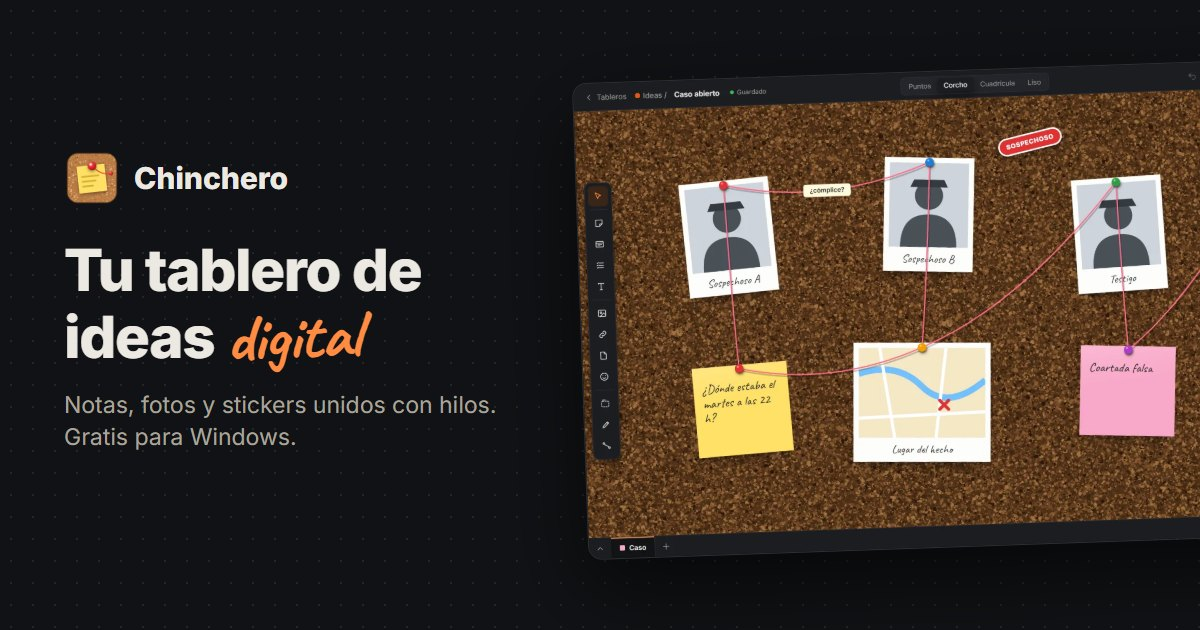
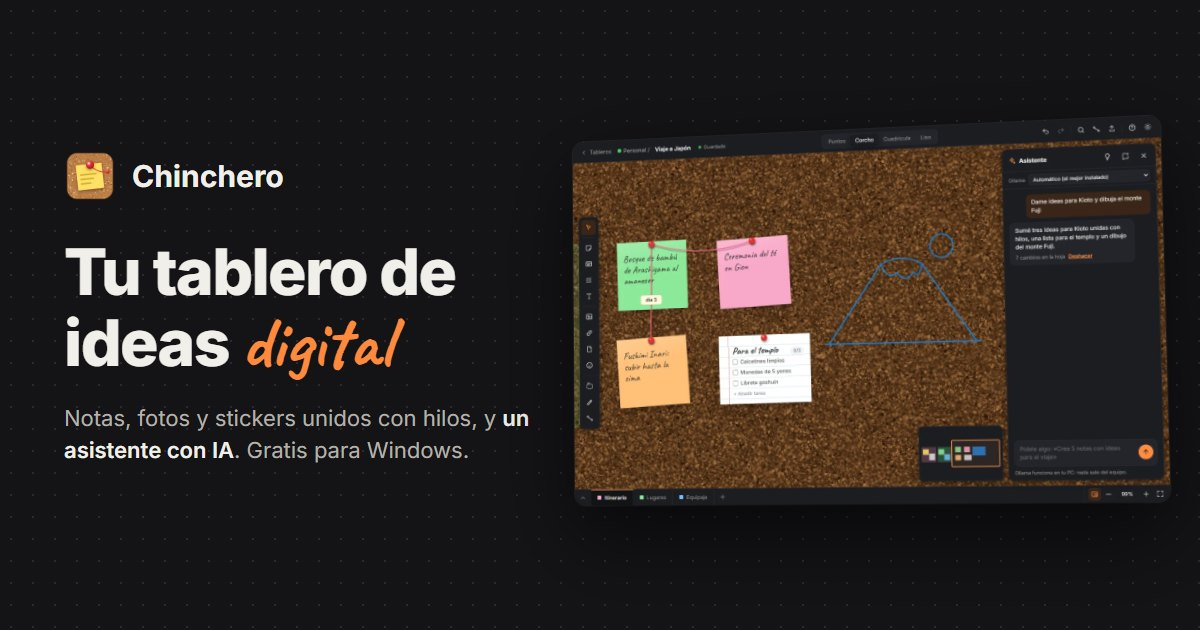
feat(web): asistente con IA, dibujo a mano, ARM64 y og.jpg nuevo

diff --git a/web/index.html b/web/index.html
@@ -4,8 +4,8 @@
 <meta charset="utf-8">
 <meta name="viewport" content="width=device-width, initial-scale=1">
 <title>Chinchero: tablero de corcho digital gratis para Windows</title>
-<meta name="description" content="Tablero de corcho digital gratis para Windows: pincha notas, fotos y stickers, únelos con hilos como un tablero de detective y organiza tus ideas sin conexión.">
-<meta name="keywords" content="tablero de corcho digital, tablero de corcho virtual, tablero de ideas, tablero de detective, notas adhesivas, post-it en el escritorio, moodboard, mapa mental, lluvia de ideas, organizar ideas, organizador de notas, app gratis para Windows, Chinchero">
+<meta name="description" content="Tablero de corcho digital gratis para Windows: pincha notas, fotos y stickers, únelos con hilos como un tablero de detective y pide ideas a un asistente con IA. Funciona sin conexión.">
+<meta name="keywords" content="tablero de corcho digital, tablero de corcho virtual, tablero de ideas, tablero de detective, notas adhesivas, post-it en el escritorio, moodboard, mapa mental, lluvia de ideas, organizar ideas, organizador de notas, asistente con IA, IA local, Ollama, Gemini, app gratis para Windows, Chinchero">
 <meta name="author" content="Max Lezano">
 <meta name="robots" content="index, follow">
 <meta name="theme-color" content="#c2410c">
@@ -13,16 +13,16 @@
 <meta property="og:site_name" content="Chinchero">
 <meta property="og:locale" content="es_LA">
 <meta property="og:title" content="Chinchero: tablero de corcho digital gratis para Windows">
-<meta property="og:description" content="Notas, fotos y stickers unidos con hilos, como en un tablero de verdad. Gratis para Windows y sin conexión.">
+<meta property="og:description" content="Notas, fotos y stickers unidos con hilos, como en un tablero de verdad, y un asistente con IA que te da ideas. Gratis para Windows.">
 <meta property="og:image" content="https://tuchinchero.com/assets/og.jpg">
 <meta property="og:image:width" content="1200">
 <meta property="og:image:height" content="630">
-<meta property="og:image:alt" content="Tablero de Chinchero con notas, fotos y stickers unidos con hilos">
+<meta property="og:image:alt" content="Tablero de Chinchero con notas unidas con hilos, un dibujo y el asistente con IA abierto">
 <meta property="og:url" content="https://tuchinchero.com/">
 <meta property="og:type" content="website">
 <meta name="twitter:card" content="summary_large_image">
 <meta name="twitter:title" content="Chinchero: tablero de corcho digital gratis para Windows">
-<meta name="twitter:description" content="Notas, fotos y stickers unidos con hilos, como en un tablero de verdad. Gratis para Windows y sin conexión.">
+<meta name="twitter:description" content="Notas, fotos y stickers unidos con hilos, como en un tablero de verdad, y un asistente con IA que te da ideas. Gratis para Windows.">
 <meta name="twitter:image" content="https://tuchinchero.com/assets/og.jpg">
 <script type="application/ld+json">
 {
@@ -31,9 +31,11 @@
   "name": "Chinchero",
   "alternateName": "Tu Chinchero",
   "url": "https://tuchinchero.com/",
-  "description": "Tablero de corcho digital para Windows: notas adhesivas, fotos, listas y stickers unidos con hilos para organizar ideas, proyectos, estudios y viajes. Funciona sin conexión.",
+  "description": "Tablero de corcho digital para Windows: notas adhesivas, fotos, listas, stickers y dibujos unidos con hilos para organizar ideas, proyectos, estudios y viajes, con un asistente con IA opcional. Funciona sin conexión.",
   "applicationCategory": "ProductivityApplication",
   "operatingSystem": "Windows 10, Windows 11",
+  "processorRequirements": "x64, ARM64",
+  "featureList": ["Notas adhesivas, fichas y listas de tareas", "Fotos, enlaces y archivos", "Hilos entre elementos", "Zonas, grupos, tableros y hojas", "Dibujo a mano alzada con goma", "Asistente con IA: Gemini gratis u Ollama sin internet", "Búsqueda en todas las hojas", "Exportar a PNG y PDF", "Copias de seguridad", "Atajos personalizables y lector de pantalla"],
   "inLanguage": "es",
   "image": "https://tuchinchero.com/assets/og.jpg",
   "downloadUrl": "https://github.com/MaxLezano/Chinchero/releases/latest",
@@ -55,7 +57,7 @@
   <div class="wrap">
     <a class="logo" href="#"><img src="assets/icon-256.png" alt="">Chinchero</a>
     <nav class="nav-links" aria-label="Secciones">
-      <a href="#funciones">Funciones</a><a href="#como">Cómo se usa</a><a href="#capturas">Capturas</a><a href="#descargar">Descargar</a><a href="#preguntas">Preguntas</a>
+      <a href="#funciones">Funciones</a><a href="#asistente">Asistente</a><a href="#como">Cómo se usa</a><a href="#capturas">Capturas</a><a href="#descargar">Descargar</a><a href="#preguntas">Preguntas</a>
     </nav>
     <div class="nav-actions">
       <button class="icon-btn" id="themeBtn" aria-label="Cambiar tema">
@@ -73,7 +75,7 @@
       <div>
         <span class="eyebrow">📌 Gratis · Windows · Sin conexión</span>
         <h1>Tu tablero de ideas <span class="hand">digital</span></h1>
-        <p class="lead">Un tablero de corcho digital para tu PC: pincha notas, fotos, listas y stickers. Únelos con hilos como en las pelis de detectives y organiza tus ideas en tableros y hojas. Todo queda en tu equipo.</p>
+        <p class="lead">Un tablero de corcho digital para tu PC: pincha notas, fotos, listas y stickers. Únelos con hilos como en las pelis de detectives y organiza tus ideas en tableros y hojas. Y si te trabas, Chinche, el asistente con IA, te da ideas. Todo queda en tu equipo.</p>
         <div class="cta">
           <a class="btn btn-primary dl-btn" href="#descargar">
             <svg viewBox="0 0 24 24" fill="currentColor" aria-hidden="true"><path d="M3 5.5 10.5 4.5v7H3zM11.5 4.4 21 3v8.5h-9.5zM3 12.5h7.5v7L3 18.5zM11.5 12.5H21V21l-9.5-1.4z"/></svg>
@@ -81,7 +83,7 @@
           </a>
           <a class="btn" href="#como">Ver cómo funciona</a>
         </div>
-        <div class="hero-meta"><span>Windows 10 y 11</span><span>Se actualiza sola</span><span>Código abierto</span></div>
+        <div class="hero-meta"><span>Windows 10 y 11 · Intel, AMD y ARM</span><span>Se actualiza sola</span><span>Código abierto</span></div>
       </div>
 
       <div class="board" id="heroBoard" aria-label="Animación: alguien crea notas, une ideas con hilos y las agrupa en una zona">
@@ -115,16 +117,32 @@
         <article class="feature reveal"><div class="fi" style="--c:#ebfbee">📑</div><h3>Tableros y hojas</h3><p>Organiza tableros en grupos y cada tablero en hojas, como pestañas de Excel.</p></article>
         <article class="feature reveal"><div class="fi" style="--c:#fff4e6">🔎</div><h3>Encuentra todo</h3><p>Ctrl+K busca cualquier nota, foto o lista en todas las hojas y salta directo a ella.</p></article>
         <article class="feature reveal"><div class="fi" style="--c:#f8f0e3">🌗</div><h3>Fondos, claro y oscuro</h3><p>Fondo de corcho, puntos o cuadrícula, en tema claro u oscuro. Tú eliges.</p></article>
-        <article class="feature reveal"><div class="fi" style="--c:#e6fcf5">↩</div><h3>Sin miedo a equivocarte</h3><p>Guardado automático, deshacer y rehacer, copias de seguridad y papelera durante 30 días.</p></article>
+        <article class="feature reveal"><div class="fi" style="--c:#e6fcf5">↩</div><h3>Sin miedo a equivocarte</h3><p>Guardado automático, deshacer y rehacer, y papelera durante 30 días. Si algo se daña, Chinchero lo recupera.</p></article>
         <article class="feature reveal"><div class="fi" style="--c:#fff0f6">🔒</div><h3>Tus datos son tuyos</h3><p>Sin cuentas ni nube obligatoria. Todo queda en una carpeta que puedes copiar donde quieras.</p></article>
         <article class="feature reveal"><div class="fi" style="--c:#e7f5ff">📤</div><h3>Exporta y comparte</h3><p>Guarda una hoja como imagen PNG o PDF, o pasa un tablero entero en un archivo .chinchero.</p></article>
-        <article class="feature reveal"><div class="fi" style="--c:#fff9db">💾</div><h3>Copias de seguridad</h3><p>Copias en .zip con un clic y automáticas al abrir. Si algo se daña, Chinchero lo recupera.</p></article>
+        <article class="feature reveal"><div class="fi" style="--c:#fff9db">✏</div><h3>Dibuja a mano</h3><p>Flechas, círculos y garabatos sobre el tablero con el lápiz, y una goma para borrar trazos.</p></article>
         <article class="feature reveal"><div class="fi" style="--c:#f3f0ff">⌨</div><h3>A tu manera</h3><p>Cambia los atajos, úsalo entero con el teclado o con lector de pantalla y activa sonidos si te gustan.</p></article>
       </div>
+      <p class="sec-note reveal">Y copias de seguridad en .zip con un clic, más una automática cada vez que abres Chinchero.</p>
     </div>
   </section>
 
-  <section id="como" class="alt">
+  <section id="asistente" class="alt">
+    <div class="wrap">
+      <div class="sec-head reveal"><div class="kicker">Chinche, tu asistente con IA</div><h2>Pídele ideas y las pincha por ti</h2><p>Haz clic en la chinche de la esquina y escribe lo que necesitas. Todo lo que hace se deshace con Ctrl+Z.</p></div>
+      <div class="features">
+        <article class="feature reveal"><div class="fi" style="--c:#fff3bf">💡</div><h3>Ideas al instante</h3><p>Propone ideas sobre lo que hay en la hoja o lo que elegiste, como notas unidas con hilos.</p></article>
+        <article class="feature reveal"><div class="fi" style="--c:#ebfbee">🧩</div><h3>Tableros completos</h3><p>«Arma un plan de viaje a Japón»: crea notas, fichas, listas, zonas y hojas nuevas.</p></article>
+        <article class="feature reveal"><div class="fi" style="--c:#f3f0ff">🗂</div><h3>Resume y ordena</h3><p>Resume una hoja en una ficha, agrupa por tema en zonas o junta las tareas pendientes en una lista.</p></article>
+        <article class="feature reveal"><div class="fi" style="--c:#e7f5ff">🖍</div><h3>También dibuja</h3><p>Pídele un caballo, un mapa o el monte Fuji y lo dibuja a mano alzada en el tablero.</p></article>
+        <article class="feature reveal"><div class="fi" style="--c:#fff4e6">✨</div><h3>Gemini, gratis</h3><p>Lo más fácil: con tu cuenta de Google y una clave gratuita que Chinchero te ayuda a sacar paso a paso.</p></article>
+        <article class="feature reveal"><div class="fi" style="--c:#e6fcf5">🔌</div><h3>Ollama, sin internet</h3><p>Chinchero lo instala por ti, sin ventanas: la IA corre en tu PC y nada sale del equipo.</p></article>
+      </div>
+      <p class="sec-note reveal">Viene desactivado: lo activas en Ajustes → Asistente con IA solo si lo quieres.</p>
+    </div>
+  </section>
+
+  <section id="como">
     <div class="wrap">
       <div class="sec-head reveal"><div class="kicker">En cuatro gestos</div><h2>Cómo se usa</h2><p>Y si te pierdes, cada pantalla tiene un tutorial guiado y sugerencias que aparecen en el momento justo.</p></div>
       <div class="steps">
@@ -151,11 +169,12 @@
     </div>
   </section>
 
-  <section id="capturas">
+  <section id="capturas" class="alt">
     <div class="wrap">
       <div class="sec-head reveal"><div class="kicker">Así se ve</div><h2>Capturas reales de la app</h2><p>Cambia el tema arriba a la derecha para verlas en claro u oscuro.</p></div>
       <div class="tabs" role="tablist" aria-label="Capturas">
         <button class="tab" role="tab" data-shot="editor">Tablero</button>
+        <button class="tab" role="tab" data-shot="assistant">Asistente</button>
         <button class="tab" role="tab" data-shot="detective">Detective</button>
         <button class="tab" role="tab" data-shot="kanban">Kanban</button>
         <button class="tab" role="tab" data-shot="select">Edición</button>
@@ -168,17 +187,17 @@
     </div>
   </section>
 
-  <section class="alt">
+  <section>
     <div class="wrap">
       <div class="sec-head reveal"><div class="kicker">Para ir rápido</div><h2>Atajos que vas a usar todos los días</h2><p>Y si prefieres otros, los cambias en Ajustes → Atajos.</p></div>
       <div class="keys reveal">
-        <div class="key">Nota nueva <kbd>N</kbd></div><div class="key">Tender hilo <kbd>L</kbd></div><div class="key">Buscar <kbd>Ctrl K</kbd></div><div class="key">Deshacer <kbd>Ctrl Z</kbd></div>
-        <div class="key">Agrupar <kbd>Ctrl G</kbd></div><div class="key">Duplicar <kbd>Ctrl D</kbd></div><div class="key">Zoom <kbd>Rueda</kbd></div><div class="key">Encuadrar todo <kbd>Shift 1</kbd></div>
+        <div class="key">Nota nueva <kbd>N</kbd></div><div class="key">Tender hilo <kbd>L</kbd></div><div class="key">Dibujar <kbd>D</kbd></div><div class="key">Goma <kbd>E</kbd></div>
+        <div class="key">Buscar <kbd>Ctrl K</kbd></div><div class="key">Deshacer <kbd>Ctrl Z</kbd></div><div class="key">Agrupar <kbd>Ctrl G</kbd></div><div class="key">Encuadrar todo <kbd>Shift 1</kbd></div>
       </div>
     </div>
   </section>
 
-  <section id="descargar">
+  <section id="descargar" class="alt">
     <div class="wrap">
       <div class="sec-head reveal"><div class="kicker">Gratis, para siempre</div><h2>Descarga Chinchero</h2><p>Un instalador para Windows. Las versiones nuevas se instalan solas.</p></div>
       <div class="dl">
@@ -186,7 +205,7 @@
         <div>
           <div class="card reveal">
             <h3 style="margin-top:0">Requisitos</h3>
-            <ul class="req"><li>Windows 10 u 11 de 64 bits, con procesador Intel, AMD o ARM</li><li>Unos 400 MB libres</li><li>No necesita internet para usarla</li></ul>
+            <ul class="req"><li>Windows 10 u 11 de 64 bits, con procesador Intel, AMD o ARM</li><li>Unos 400 MB libres</li><li>No necesita internet para usarla</li><li>Asistente con IA (opcional): internet para Gemini, o unos 6 GB más para Ollama sin internet</li></ul>
             <div class="callout"><b>¿Windows muestra un aviso al instalar?</b> Es normal en apps nuevas sin firma comercial: pulsa «Más información» → «Ejecutar de todas formas».</div>
           </div>
           <div class="card reveal" style="margin-top:22px">
@@ -198,11 +217,13 @@
     </div>
   </section>
 
-  <section id="preguntas" class="alt">
+  <section id="preguntas">
     <div class="wrap">
       <div class="sec-head reveal"><div class="kicker">Dudas</div><h2>Preguntas frecuentes</h2></div>
       <div class="faq reveal">
         <details><summary>¿Es gratis?</summary><p>Sí, totalmente. Y el código es abierto: puedes verlo en GitHub.</p></details>
+        <details><summary>¿El asistente con IA cuesta algo?</summary><p>No. Con Gemini usas el plan gratuito de Google con tu propia clave (tiene un cupo por día; si se agota, espera un rato). Con Ollama la IA corre en tu PC, sin cupos ni internet, aunque más lento si no tienes tarjeta gráfica.</p></details>
+        <details><summary>¿Mis tableros se envían a internet?</summary><p>Solo si usas el asistente con Gemini: el texto de la hoja que tienes abierta va a Google para que responda. Con Ollama, o con el asistente desactivado (como viene), nada sale de tu PC.</p></details>
         <details><summary>¿Dónde se guardan mis tableros?</summary><p>En la carpeta Documentos\Chinchero (puedes cambiarla en Ajustes). Las imágenes que pinchas se copian ahí, así no se pierden aunque muevas los originales.</p></details>
         <details><summary>¿Puedo pasar mis tableros a otra computadora?</summary><p>Sí: en Ajustes → Datos haz una copia de seguridad (.zip) y en el otro equipo elige «Restaurar copia». También puedes copiar la carpeta entera y elegir «Abrir datos existentes».</p></details>
         <details><summary>¿Puedo compartir un tablero?</summary><p>Sí: «Exportar tablero…» guarda un archivo .chinchero con sus imágenes, que la otra persona abre con doble clic. También puedes exportar una hoja como imagen PNG o PDF.</p></details>

diff --git a/app/tests/og-web.js b/app/tests/og-web.js
@@ -1,0 +1,52 @@
+const puppeteer = require("puppeteer-core");
+const fs = require("fs");
+const path = require("path");
+const { pathToFileURL } = require("url");
+
+// Regenera la imagen para redes de la web (web/assets/og.jpg, 1200×630): logo, título y la captura del asistente.
+// No es una prueba: correrla después de tests/capturas-web.js cuando cambien las capturas o el mensaje.
+// Uso: node tests/og-web.js
+const WEB = path.join(__dirname, "..", "..", "web");
+const OUT = path.join(__dirname, "out");
+const url = f => pathToFileURL(path.join(WEB, "assets", f)).href;
+
+const html = `<!doctype html><meta charset="utf-8">
+<link rel="stylesheet" href="${url("fonts/fonts.css")}">
+<style>
+  body { margin: 0; width: 1200px; height: 630px; overflow: hidden; background: #141417; color: #f1efe9; font-family: Inter, sans-serif;
+    background-image: radial-gradient(#2a2a30 1px, transparent 1px); background-size: 22px 22px; }
+  .txt { position: absolute; left: 64px; top: 150px; width: 470px; }
+  .logo { display: flex; align-items: center; gap: 16px; font-size: 30px; font-weight: 700; }
+  .logo img { width: 52px; height: 52px; }
+  h1 { margin: 36px 0 22px; font-size: 64px; line-height: 1.05; letter-spacing: -1.5px; font-weight: 800; }
+  h1 span { font-family: Caveat, cursive; color: #ff8a3d; font-weight: 700; font-size: 72px; letter-spacing: 0; }
+  p { margin: 0; font-size: 22px; line-height: 1.45; color: #b4b1aa; }
+  p b { color: #f1efe9; font-weight: 600; }
+  .shot { position: absolute; left: 560px; top: 128px; width: 600px; border-radius: 12px; overflow: hidden;
+    transform: perspective(1600px) rotateY(-10deg) rotateX(3deg) rotateZ(-1.5deg);
+    box-shadow: 0 30px 80px rgba(0, 0, 0, .6), 0 0 0 1px rgba(255, 255, 255, .08); }
+  .shot img { display: block; width: 100%; }
+</style>
+<div class="txt">
+  <div class="logo"><img src="${url("icon-256.png")}" alt="">Chinchero</div>
+  <h1>Tu tablero de ideas <span>digital</span></h1>
+  <p>Notas, fotos y stickers unidos con hilos, y <b>un asistente con IA</b>. Gratis para Windows.</p>
+</div>
+<div class="shot"><img src="${url("screens/assistant-dark.webp")}" alt=""></div>`;
+
+(async () => {
+  fs.mkdirSync(OUT, { recursive: true });
+  const file = path.join(OUT, "og.html");
+  fs.writeFileSync(file, html);
+  const browser = await puppeteer.launch({ executablePath: process.env.EDGE_PATH || "C:/Program Files (x86)/Microsoft/Edge/Application/msedge.exe", headless: true, args: ["--allow-file-access-from-files"] });
+  try {
+    const page = await browser.newPage();
+    await page.setViewport({ width: 1200, height: 630 });
+    await page.goto(pathToFileURL(file).href, { waitUntil: "networkidle0" });
+    await page.evaluate(() => document.fonts.ready);
+    await page.screenshot({ path: path.join(WEB, "assets", "og.jpg"), type: "jpeg", quality: 86 });
+  } finally {
+    await browser.close();
+  }
+  console.log("Imagen en " + path.join(WEB, "assets", "og.jpg"));
+})();

diff --git a/app/tests/capturas-web.js b/app/tests/capturas-web.js
@@ -26,6 +26,28 @@ const BOARDS = [
         localStorage.clear(); localStorage.setItem("chinchero-theme", t);
         localStorage.setItem("chinchero-tours", "off"); localStorage.setItem("chinchero-tips", "off");
       }, theme);
+      // En un navegador no hay asistente: solo asistente.js ve una API «ai» falsa con Ollama y una respuesta fija.
+      // store.js sigue sin ver window.chinchero, así que los datos van a localStorage como siempre.
+      await page.evaluateOnNewDocument(() => {
+        const ai = {
+          status: () => ({ enabled: true, provider: "ollama", model: "", hasKey: false }),
+          models: async () => ({ models: ["qwen3:4b", "llama3.2"] }),
+          config: async c => ({ ...ai.status(), ...c }),
+          chat: async () => ({
+            model: "qwen3:4b",
+            text: "Sumé tres ideas para Kioto unidas con hilos, una lista para el templo y un dibujo del monte Fuji.",
+            actions: [
+              { op: "crear", tipo: "nota", ref: "a", texto: "Bosque de bambú de Arashiyama al amanecer", color: "verde" },
+              { op: "crear", tipo: "nota", ref: "b", texto: "Ceremonia del té en Gion", color: "rosa", cerca: "a" },
+              { op: "crear", tipo: "nota", ref: "c", texto: "Fushimi Inari: subir hasta la cima", color: "naranja", cerca: "a" },
+              { op: "crear", tipo: "lista", ref: "d", titulo: "Para el templo", tareas: ["Calcetines limpios", "Monedas de 5 yenes", "Libreta goshuin"], cerca: "c" },
+              { op: "dibujar", cerca: "b", color: "azul", trazos: ["M20 300 L150 110 Q200 80 250 110 L380 300", "M150 110 Q170 150 190 130 Q210 160 230 130 Q245 150 250 110", "M300 40 A28 28 0 1 1 299 40", "M10 300 L390 300"] },
+              { op: "unir", a: "a", b: "b" }, { op: "unir", a: "a", b: "c", etiqueta: "día 3" },
+            ],
+          }),
+        };
+        Object.defineProperty(window, "chinchero", { configurable: true, get: () => /\/assets\/asistente\.js$/.test(document.currentScript?.src || "") ? { ai } : undefined });
+      });
       const ids = {};
       for (const [template, name, group] of BOARDS) {
         await page.goto(BASE + "02-tablero.html?" + new URLSearchParams({ template, name, group }), { waitUntil: "networkidle0" });
@@ -50,6 +72,13 @@ const BOARDS = [
       });
       await shot("detective", ed("Caso abierto"));
       await shot("kanban", ed("Roadmap"));
+      // Al terminar, el asistente deja seleccionado lo que creó; se suelta con un clic en el corcho vacío
+      await shot("assistant", ed("Viaje a Japón"), async () => {
+        await page.click("#aiBtn"); await sleep(300);
+        await page.type("#aiInput", "Dame ideas para Kioto y dibuja el monte Fuji");
+        await page.keyboard.press("Enter"); await sleep(600);
+        await page.mouse.click(560, 800);
+      });
       await page.close();
     }
   } finally {

diff --git a/web/assets/site.js b/web/assets/site.js
@@ -100,6 +100,7 @@ $$(".reveal, .demo").forEach(el => io.observe(el));
 /* ---------- Galería de capturas ---------- */
 const SHOTS = {
   editor: ["editor", "Tu tablero: notas, fotos, listas, stickers y zonas, todo unido con hilos."],
+  assistant: ["assistant", "Chinche, el asistente con IA: suma ideas unidas con hilos, una lista y hasta un dibujo."],
   detective: ["detective", "Plantilla Detective sobre corcho: fotos, pistas e hilos con etiquetas."],
   kanban: ["kanban", "Kanban con zonas: mueve una zona y se mueve todo lo que tiene dentro."],
   select: ["editor-select", "Selecciona un elemento para cambiar marco, encuadre, chinche o bloquearlo."],

diff --git a/web/assets/site.css b/web/assets/site.css
@@ -116,6 +116,7 @@ section { padding: 90px 0; }
 .sec-head .kicker { font: 700 30px var(--hand); color: var(--accent); }
 .sec-head h2 { font-size: clamp(30px, 3.6vw, 44px); line-height: 1.1; letter-spacing: -.02em; margin: 4px 0 14px; }
 .sec-head p { color: var(--muted); font-size: 17px; margin: 0; }
+.sec-note { text-align: center; color: var(--muted); font-size: 15px; margin: 28px auto 0; max-width: 680px; }
 .alt { background: var(--bg-2); }
 
 .uses { padding: 26px 0 10px; }

diff --git a/ROADMAP.md b/ROADMAP.md
@@ -21,10 +21,10 @@ Lista de tareas para avanzar de a una. Cada tarea se hace en una sesión de chat
 
 ## Pendientes
 
-- **Actualizar la web con lo que hace la app hoy**: `web/index.html` quedó atrás. Sumar el asistente con IA (Chinche, Gemini gratis u Ollama sin internet: ideas, tableros completos, resúmenes, zonas, hojas y dibujos), dibujos a mano y goma, atajos personalizables, accesibilidad, ARM64 y lo que falte; revisar textos, secciones y capturas (`node tests/capturas-web.js`, sumar una del asistente) y el SEO (descripción, `og.jpg`).
+- (Sin tareas de código: tomar una de «Para hacer a mano» o proponer la siguiente.)
 
 ### Para hacer a mano (necesitan a una persona)
-- Prueba de usuario de Ollama con el instalador nuevo (`app/dist-prueba`): «Quitar Ollama» y volver a instalarlo (ahora desde el .zip, sin ventanas). Antes: prueba de usuario de Ollama desde cero (ya se limpió todo: programa, modelos, PATH, inicio de Windows y los ajustes del asistente): instalar el `.exe` nuevo, activar el asistente con Ollama, elegir Qwen 3, instalar y chatear; que no aparezca ninguna ventana de Ollama ni al instalar ni al reiniciar la PC. Probar «Quitar Ollama» en Ajustes y desinstalar Chinchero: que pregunte si conservar los datos (con «No» se borran solo boards, media, backups y library.json) y que quite Ollama si lo instaló Chinchero.
+- Prueba de usuario desde cero con un instalador nuevo (`npm run dist`; el 2026-10-27 se dejó la PC como si Chinchero nunca se hubiera instalado: app, datos de `D:Chinchero`, ajustes, caché del actualizador, Ollama con sus modelos, PATH y accesos directos). Probar también «Quitar Ollama» y volver a instalarlo (desde el .zip, sin ventanas): instalar el `.exe` nuevo, activar el asistente con Ollama, elegir Qwen 3, instalar y chatear; que no aparezca ninguna ventana de Ollama ni al instalar ni al reiniciar la PC. Probar «Quitar Ollama» en Ajustes y desinstalar Chinchero: que pregunte si conservar los datos (con «No» se borran solo boards, media, backups y library.json) y que quite Ollama si lo instaló Chinchero.
 - Con la 0.6.0, en una PC con ARM (Snapdragon): que la web ofrezca la ARM64, que se instale y abra, que se actualice sola con la ARM64 y que instalarla encima de una x64 ya instalada funcione sin perder datos. Revisar también que el PR de winget lleve los dos instaladores.
 - Tener la 0.5.0 instalada con una clave de Gemini guardada, actualizar a la 0.6.0 con «Reiniciar ahora» y comprobar que el asistente sigue conectado (Ajustes muestra la pista de la clave y «Probar» funciona).
 - Probar la conexión guiada de verdad: la guía de Gemini con una cuenta real (¿los textos «Create API key», «Create project» y «Copy» siguen así en AI Studio?) y «Instalar Ollama» en una PC sin Ollama: que la firma del instalador se acepte (el firmante debe contener «Ollama»), que se instale en silencio sin pedir permisos, que arranque y que baje `llama3.2`. Probar también «Cancelar» durante la descarga.
@@ -47,6 +47,7 @@ Lista de tareas para avanzar de a una. Cada tarea se hace en una sesión de chat
 
 ## Hecho
 
+- **2026-10-27 · Web al día**: sección nueva «Chinche, tu asistente con IA» (ideas, tableros completos, resumir y ordenar en zonas, dibujos, Gemini gratis y Ollama sin internet; viene desactivado), tarjeta «Dibuja a mano» (lápiz y goma) en «Funciones» (las copias de seguridad pasan a una nota debajo), atajos D y E, Intel/AMD/ARM en el inicio, requisitos del asistente y dos preguntas nuevas (costo y privacidad). Captura «Asistente» en la galería: `tests/capturas-web.js` le da a `asistente.js` (y solo a él) una API `ai` falsa con una respuesta fija, así la conversación y lo que crea son reales en el editor. `og.jpg` nuevo con la captura del asistente, ahora repetible con `node tests/og-web.js`. SEO: descripción, keywords, og/twitter y `featureList` y `processorRequirements` en el JSON-LD. Antes, a pedido, se limpió la PC: desinstalada la 0.6.0, borrados Ollama y sus modelos, ajustes, caché del actualizador, datos de prueba y `app/tests/out` y `app/dist-prueba`.
 - **2026-10-27 · Ollama sin ventanas y QA real del asistente**: las ventanas de consola que saltaban sin parar venían de arrancar `ollama serve` «detached» (sin consola, cada proceso que lanza al cargar un modelo abría la suya): medido, 42 ventanas en un pedido y 0 sin detached. Ahora el servidor se cierra con Chinchero y se pone en marcha solo (chat y Ajustes). La instalación ya no usa el instalador oficial (abría su asistente y la app de Ollama, tocaba el PATH y el inicio de Windows): baja el .zip oficial de la última versión (API de GitHub), comprueba su SHA-256 publicado, lo descomprime oculto con `tar.exe` y comprueba la firma de `ollama.exe` antes de moverlo a su lugar. QA real de punta a punta (perfil aislado): instalación completa en 97 s (Ollama 1,59 GB en 17 s, Qwen 3 en 58 s), 0 ventanas. Chat: Gemini responde en 2–6 s con tableros completos; Ollama (qwen3, con GPU) en 2–8 s. Arreglado con lo que salió del QA: los títulos ya no quedan tapados (tamaño estimado de textos y sellos), lo creado no queda debajo de la barra de herramientas, los dibujos salen más grandes y en un color que se ve con el tema, las zonas viajan con su contenido a otra hoja, nueva acción para renombrar la hoja y, si se lleva todo a una hoja nueva, se renombra la actual en vez de dejar una pestaña vacía.
 - **2026-10-27 · Modelos de Ollama, quitar Ollama y desinstalador que pregunta**: banco con 5 pedidos (notas, caballo, tablero de cuentas, pasar a otra hoja, viaje) aplicados en el editor real. `qwen3:4b` es el mejor (tableros completos con zonas, listas, fichas e hilos; notas útiles) y queda recomendado; `llama3.2` queda como liviano (más rápido, respuestas simples); `gemma3:4b` descartado (olvida los ref). Sin tarjeta gráfica, 5 notas: llama3.2 44 s, gemma3 54 s, qwen3 99 s. Ningún modelo local dibuja algo reconocible. Ajustes deja elegir el modelo con su descripción, «Automático» usa el mejor instalado y se manda `think: false` (qwen3). «Quitar Ollama» lo cierra (solo los procesos de su carpeta), corre su desinstalador, borra modelos, registros, el acceso del inicio y su entrada del PATH (el desinstalador oficial la deja). Desinstalador de Chinchero (`build/installer.nsh`, no corre al actualizar): quita Ollama si lo instaló Chinchero (marca `ollama-de-chinchero`) y pregunta si conservar tableros, copias y ajustes (sí por defecto y en silencio); la app deja la carpeta de datos en `carpeta-de-datos.txt` (UTF-16) para que NSIS la lea. Arreglado: el aviso «sin cupo gratis» de Ajustes nunca salía (había un carácter de retroceso en lugar de `\b`). `e2e-app` aísla también USERPROFILE y APPDATA.
 - **2026-10-27 · Asistente más útil y Ollama sin ventanas**: el chat respondía vago y no manejaba hojas. Ahora: acción `hoja` (crea o va a una hoja, «llevar» pasa elementos con sus hilos; un Ctrl+Z lo deshace), zonas con su contenido (`dentro`, armadas al final en bloques que no se pisan; también si el modelo escribe los elementos enteros ahí), stickers con emoji, y `applyAI` deja registro de lo que hizo con ids, que vuelve al modelo en el historial ([Hecho: …]) para entender «hazlo» o «eso». Texto del sistema nuevo: {plan, acciones, respuesta} (piensa antes y cuenta solo lo que hizo), reglas de calidad para tableros completos y de dibujo por partes en 400x400. Ollama: esquema JSON estricto, `num_ctx` 8192 y tope de salida (antes `llama3.2` respondía sin acciones). Instalación de Ollama: el instalador oficial abre `ollama app.exe` al terminar aunque sea silencioso (su `[Run]` no tiene `skipifsilent`) y la app se pone en el inicio de Windows; ahora se cierra, se quita `Ollama.lnk` del inicio y Chinchero arranca solo `ollama.exe serve` oculto, también al chatear si no está corriendo. 8 pruebas nuevas en `e2e-ui.js`.
